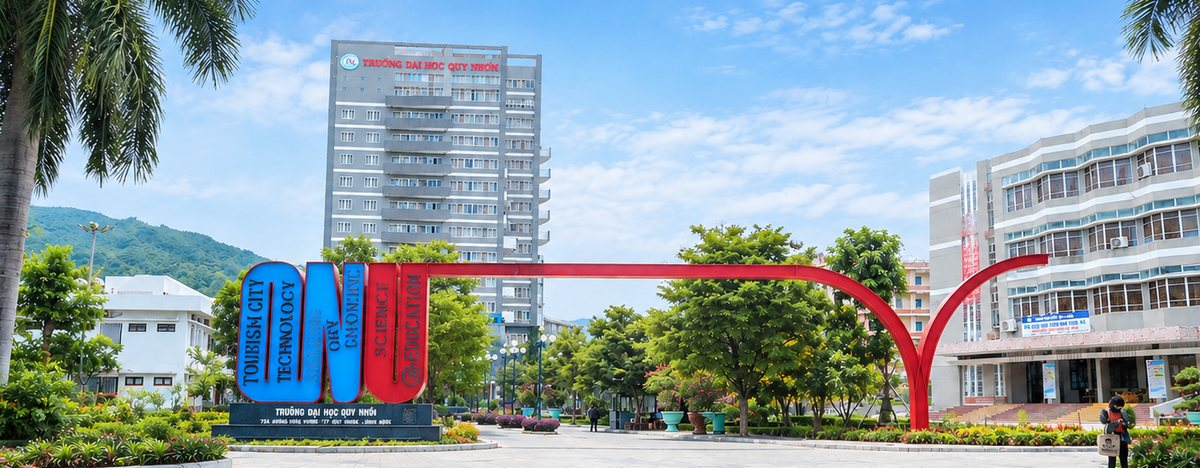
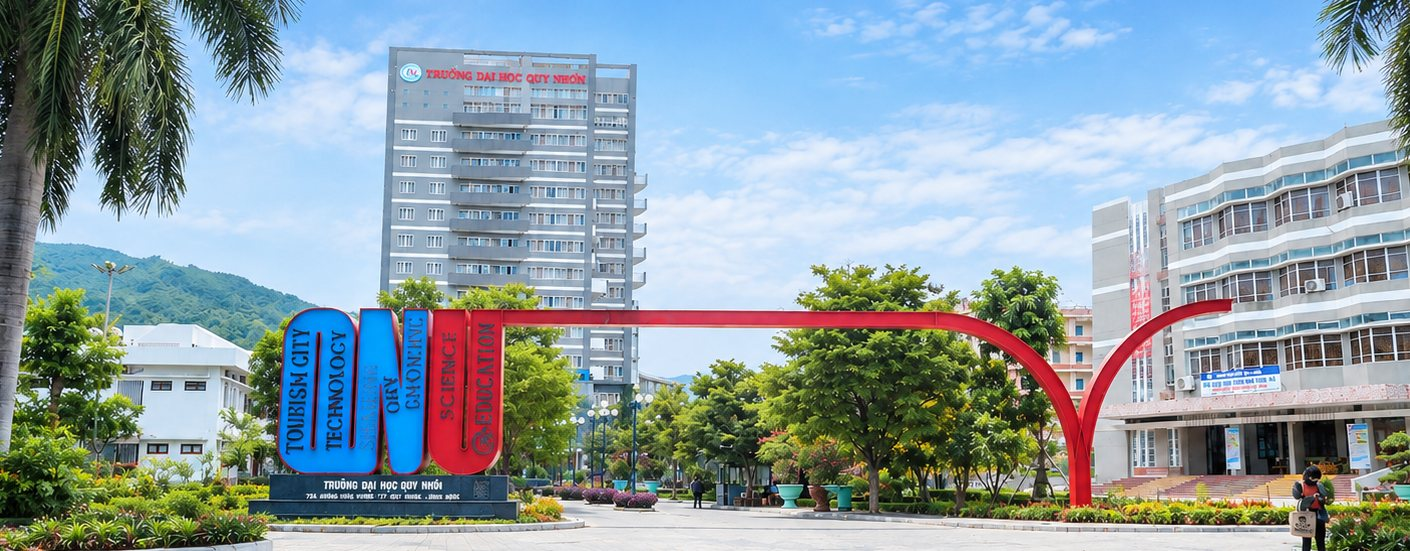
Add files via upload

diff --git a/assets/js/index.js b/assets/js/index.js
@@ -707,6 +707,38 @@ const toast = document.getElementById('toast');
 
     renderSubjectGrids();
 
+    // ---------------- QUY TẮC CHUNG: ô nào admin để TRỐNG thì ẨN, không dùng chữ mặc định ----------------
+    // - Trường CHƯA TỪNG được lưu (undefined)  -> giữ nội dung mặc định trong HTML.
+    // - Trường đã lưu nhưng để trống ("")       -> ẩn hẳn phần tử đó.
+    function isBlankField(obj, key){
+        return !!obj && typeof obj[key] === 'string' && obj[key].trim() === '';
+    }
+    function hasField(obj, key){
+        return !!obj && typeof obj[key] === 'string';
+    }
+    // Ẩn 1 phần tử; nếu cha là .sec-head mà không còn con nào hiện thì ẩn luôn cả cha (đỡ chừa khoảng trống).
+    function hideEl(el){
+        if (!el) return;
+        el.style.display = 'none';
+        const parent = el.parentElement;
+        if (parent && parent.classList.contains('sec-head') &&
+            Array.from(parent.children).every(c => c === el || c.style.display === 'none')){
+            parent.style.display = 'none';
+        }
+    }
+    function showEl(el){
+        if (!el) return;
+        el.style.display = '';
+        const parent = el.parentElement;
+        if (parent && parent.classList.contains('sec-head')) parent.style.display = '';
+    }
+    // Gán chữ nếu có, ẩn nếu để trống, giữ mặc định nếu chưa từng cấu hình.
+    function applyTextOrHide(el, obj, key){
+        if (!el || !hasField(obj, key)) return;
+        const v = obj[key].trim();
+        if (v){ el.textContent = v; showEl(el); } else { hideEl(el); }
+    }
+
     // ---------------- KHỐI GIỚI THIỆU (hero) — đọc từ Supabase site_settings ----------------
     async function loadHeroSettings(){
         let revealed = false;
@@ -723,8 +755,8 @@ const toast = document.getElementById('toast');
             if (error || !data || !data.payload) return; // chưa cấu hình -> giữ nội dung tĩnh mặc định
             const hero = data.payload;
             if (hero.pageTitle) document.title = hero.pageTitle;
-            if (hero.eyebrow) document.getElementById('heroEyebrow').textContent = hero.eyebrow;
-            if (hero.title)   document.getElementById('heroTitle').textContent = hero.title;
+            applyTextOrHide(document.getElementById('heroEyebrow'), hero, 'eyebrow');
+            applyTextOrHide(document.getElementById('heroTitle'),   hero, 'title');
         } finally {
             // Chỉ hiện chữ ra SAU KHI đã biết chắc nội dung cuối cùng (mặc định hoặc tuỳ chỉnh)
             // -> tránh hiện tượng nháy chữ mặc định rồi đổi sang chữ tuỳ chỉnh khi tải trang.
@@ -766,18 +798,41 @@ const toast = document.getElementById('toast');
             if (badgeAlt) badgeAlt.classList.toggle('hidden', spType !== 'badge');
             if (spType === 'avatars' && avatarGroup){
                 avatarGroup.setAttribute('data-effect', sp.effect || 'none');
-                if (sp.count) document.getElementById('avatarCount').textContent = sp.count;
-                if (sp.suffix) document.getElementById('avatarSuffix').textContent = sp.suffix;
+                const countEl = document.getElementById('avatarCount');
+                const suffixEl = document.getElementById('avatarSuffix');
+                applyTextOrHide(countEl, sp, 'count');
+                applyTextOrHide(suffixEl, sp, 'suffix');
                 const avts = document.querySelectorAll('#avatarStack .mini-avt');
-                (sp.avatars || []).slice(0,4).forEach((a, i) => {
-                    if (!avts[i]) return;
-                    if (a.letter) avts[i].textContent = a.letter;
-                    if (a.color)  avts[i].style.background = a.color;
-                });
+                if (Array.isArray(sp.avatars)){
+                    avts.forEach((el, i) => {
+                        const a = sp.avatars[i];
+                        // Không có dữ liệu hoặc để trống chữ cái -> ẩn avatar đó
+                        if (!a || !String(a.letter || '').trim()){ el.style.display = 'none'; return; }
+                        el.style.display = '';
+                        el.textContent = String(a.letter).trim();
+                        if (a.color) el.style.background = a.color;
+                    });
+                }
+                // Ẩn cả nhóm nếu không còn gì để hiện (không avatar + không chữ)
+                const anyAvatar = Array.from(avts).some(el => el.style.display !== 'none');
+                const anyText = [countEl, suffixEl].some(el => el && el.style.display !== 'none');
+                const stack = document.getElementById('avatarStack');
+                if (stack) stack.style.display = anyAvatar ? '' : 'none';
+                const agText = avatarGroup.querySelector('.ag-text');
+                if (agText) agText.style.display = anyText ? '' : 'none';
+                if (!anyAvatar && !anyText) avatarGroup.style.display = 'none';
             } else if (spType === 'badge' && badgeAlt){
                 badgeAlt.setAttribute('data-effect', sp.effect || 'none');
-                if (sp.badgeIcon) document.getElementById('heroBadgeIcon').className = sp.badgeIcon;
-                if (sp.badgeText) document.getElementById('heroBadgeText').textContent = sp.badgeText;
+                const iconEl = document.getElementById('heroBadgeIcon');
+                const textEl = document.getElementById('heroBadgeText');
+                if (hasField(sp, 'badgeIcon')){
+                    if (sp.badgeIcon.trim()){ iconEl.className = sp.badgeIcon.trim(); iconEl.style.display = ''; }
+                    else iconEl.style.display = 'none';
+                }
+                applyTextOrHide(textEl, sp, 'badgeText');
+                // Huy hiệu trống cả icon lẫn chữ -> ẩn hẳn
+                if (iconEl.style.display === 'none' && textEl.style.display === 'none') badgeAlt.style.display = 'none';
+                else badgeAlt.style.display = '';
             }
         }catch(e){ /* mạng lỗi -> im lặng giữ mặc định, không chặn trang tải */ }
     }
@@ -801,8 +856,12 @@ const toast = document.getElementById('toast');
             productSectionTitle: payload.productTitle,
         };
         Object.keys(map).forEach(id => {
+            const el = document.getElementById(id);
+            if (!el) return;
             const val = map[id];
-            if (val){ const el = document.getElementById(id); if (el) el.textContent = val; }
+            if (typeof val !== 'string') return;      // chưa từng cấu hình -> giữ mặc định
+            if (val.trim()){ el.textContent = val.trim(); showEl(el); }
+            else hideEl(el);                          // admin để trống -> ẩn tiêu đề
         });
     }
     loadHomeTexts();
@@ -1605,8 +1664,14 @@ const toast = document.getElementById('toast');
 
         const titleEl = document.getElementById('supportIntroTitle');
         const descEl = document.getElementById('supportIntroDesc');
-        if (titleEl) titleEl.textContent = payload.intro_title || DEFAULT_SUPPORT_CONTENT.intro_title;
-        if (descEl) descEl.textContent = payload.intro_desc || DEFAULT_SUPPORT_CONTENT.intro_desc;
+        if (titleEl){
+            if (isBlankField(payload, 'intro_title')) titleEl.style.display = 'none';
+            else { titleEl.style.display = ''; titleEl.textContent = payload.intro_title || DEFAULT_SUPPORT_CONTENT.intro_title; }
+        }
+        if (descEl){
+            if (isBlankField(payload, 'intro_desc')) descEl.style.display = 'none';
+            else { descEl.style.display = ''; descEl.textContent = payload.intro_desc || DEFAULT_SUPPORT_CONTENT.intro_desc; }
+        }
 
         // Ẩn thẻ "Nhận Pro miễn phí" (kể cả khi đã được lưu sẵn trong DB / admin)
         const contacts = (Array.isArray(payload.contacts) ? payload.contacts : [])

diff --git a/admin/index.html b/admin/index.html
@@ -632,9 +632,9 @@
             <div id="supportIntroBlock" class="mini-form show hidden" style="max-width:620px; margin-bottom:26px; display:flex;">
                 <div class="mini-form-title">Khối giới thiệu đầu trang</div>
                 <label>Tiêu đề</label>
-                <input id="supportIntroTitleInput" placeholder="VD: Kẹt chỗ nào, nhắn liền chỗ đó 👋">
+                <input id="supportIntroTitleInput" placeholder="VD: Kẹt chỗ nào, nhắn liền chỗ đó 👋 — để trống sẽ ẩn">
                 <label>Mô tả</label>
-                <textarea id="supportIntroDescInput" rows="3" placeholder="Mô tả ngắn hiển thị dưới tiêu đề"></textarea>
+                <textarea id="supportIntroDescInput" rows="3" placeholder="Mô tả ngắn hiển thị dưới tiêu đề — để trống sẽ ẩn"></textarea>
                 <div class="mini-actions">
                     <button class="btn-mini-save" onclick="saveSupportIntro()">Lưu</button>
                 </div>
@@ -1171,11 +1171,11 @@
                         <div style="display:flex; gap:14px; flex-wrap:wrap; margin-top:10px;">
                             <div style="flex:1; min-width:170px;">
                                 <label>Số/chữ đậm (vd: 1.240 bạn)</label>
-                                <input id="setThemeSPCount" placeholder="1.240 bạn" oninput="updateThemePreview()">
+                                <input id="setThemeSPCount" placeholder="1.240 bạn — để trống sẽ ẩn" oninput="updateThemePreview()">
                             </div>
                             <div style="flex:1; min-width:170px;">
                                 <label>Chữ theo sau</label>
-                                <input id="setThemeSPSuffix" placeholder="đang ôn tập tuần này" oninput="updateThemePreview()">
+                                <input id="setThemeSPSuffix" placeholder="đang ôn tập tuần này — để trống sẽ ẩn" oninput="updateThemePreview()">
                             </div>
                         </div>
                         <label style="margin-top:10px;">4 avatar tròn (chữ cái + màu)</label>
@@ -1189,9 +1189,9 @@
 
                     <div id="setThemeSPBadge" class="hidden" style="margin-top:10px;">
                         <label>Icon (mã lớp Font Awesome)</label>
-                        <input id="setThemeSPBadgeIcon" placeholder="fa-solid fa-star">
+                        <input id="setThemeSPBadgeIcon" placeholder="fa-solid fa-star — để trống sẽ ẩn">
                         <label>Nội dung huy hiệu</label>
-                        <input id="setThemeSPBadgeText" placeholder="4.9/5 từ 320 đánh giá">
+                        <input id="setThemeSPBadgeText" placeholder="4.9/5 từ 320 đánh giá — để trống sẽ ẩn">
                     </div>
 
                     <label style="margin-top:12px;">Hiệu ứng chuyển động của khối này</label>
@@ -1219,32 +1219,32 @@
                     <input id="setHeroPageTitle" placeholder="SNG EDU — Không gian tri thức cộng đồng">
                     <div class="hint" style="margin:2px 0 10px;">Chữ hiện trên tab trình duyệt và khi chia sẻ link (Google, Zalo, Facebook...). Nếu để trống, web dùng tiêu đề mặc định.</div>
                     <label>Dòng nhỏ phía trên (eyebrow)</label>
-                    <input id="setHeroEyebrow" placeholder="Mác – Lênin">
+                    <input id="setHeroEyebrow" placeholder="Mác – Lênin — để trống sẽ ẩn">
                     <label>Tiêu đề chính</label>
-                    <input id="setHeroTitle" placeholder="Ôn tập trắc nghiệm...">
+                    <input id="setHeroTitle" placeholder="Ôn tập trắc nghiệm... — để trống sẽ ẩn">
                 </div>
 
                 <div id="setFieldsTexts" class="hidden">
                     <label style="margin-top:10px;">Tiêu đề "Truy cập nhanh"</label>
-                    <input id="setTextQuick" placeholder="Truy cập nhanh">
+                    <input id="setTextQuick" placeholder="Truy cập nhanh — để trống sẽ ẩn">
                     <label style="margin-top:10px;">Tiêu đề "Học phần nổi bật" (trang chủ)</label>
-                    <input id="setTextHomeSubjects" placeholder="Học phần nổi bật">
+                    <input id="setTextHomeSubjects" placeholder="Học phần nổi bật — để trống sẽ ẩn">
                     <label style="margin-top:10px;">Tiêu đề khối "Tài liệu miễn phí nổi bật" (chỉ hiện khi có tài liệu miễn phí được ghim)</label>
-                    <input id="setTextFeaturedDocFree" placeholder="Tài liệu miễn phí nổi bật">
+                    <input id="setTextFeaturedDocFree" placeholder="Tài liệu miễn phí nổi bật — để trống sẽ ẩn">
                     <label style="margin-top:10px;">Tiêu đề khối "Tài liệu trả phí nổi bật" (chỉ hiện khi có tài liệu trả phí được ghim)</label>
-                    <input id="setTextFeaturedDocPaid" placeholder="Tài liệu trả phí nổi bật">
+                    <input id="setTextFeaturedDocPaid" placeholder="Tài liệu trả phí nổi bật — để trống sẽ ẩn">
                     <label style="margin-top:10px;">Tiêu đề khối "Công cụ nổi bật" (chỉ hiện khi có công cụ được ghim)</label>
-                    <input id="setTextFeaturedTool" placeholder="Công cụ nổi bật">
+                    <input id="setTextFeaturedTool" placeholder="Công cụ nổi bật — để trống sẽ ẩn">
                     <label style="margin-top:10px;">Tiêu đề khối "Sản phẩm nổi bật" (chỉ hiện khi có sản phẩm được ghim)</label>
-                    <input id="setTextFeaturedProduct" placeholder="Sản phẩm nổi bật">
+                    <input id="setTextFeaturedProduct" placeholder="Sản phẩm nổi bật — để trống sẽ ẩn">
                     <label style="margin-top:10px;">Tiêu đề tab "Trắc nghiệm"</label>
-                    <input id="setTextQuiz" placeholder="Học phần đại cương">
+                    <input id="setTextQuiz" placeholder="Học phần đại cương — để trống sẽ ẩn">
                     <label style="margin-top:10px;">Tiêu đề tab "Tài liệu"</label>
-                    <input id="setTextDoc" placeholder="Tài liệu">
+                    <input id="setTextDoc" placeholder="Tài liệu — để trống sẽ ẩn">
                     <label style="margin-top:10px;">Tiêu đề tab "Công cụ"</label>
-                    <input id="setTextTool" placeholder="Công cụ">
+                    <input id="setTextTool" placeholder="Công cụ — để trống sẽ ẩn">
                     <label style="margin-top:10px;">Tiêu đề tab "Sản phẩm"</label>
-                    <input id="setTextProduct" placeholder="Sản phẩm">
+                    <input id="setTextProduct" placeholder="Sản phẩm — để trống sẽ ẩn">
                     <div class="hint" style="margin-top:6px;">Để trống ô nào thì trang chủ dùng đúng chữ mặc định như placeholder ở ô đó.</div>
                 </div>
 

diff --git a/assets/css/index.css b/assets/css/index.css
@@ -559,15 +559,23 @@
     body[data-show-avatars="0"] .avatar-group{ display:none; }
     .hero-text{ flex:1; min-width:0; position:relative; z-index:1; }
     .hero-illustration{ flex-shrink:0; width:172px; height:172px; filter:drop-shadow(0 14px 22px rgba(30,25,60,.14)); position:relative; z-index:1; }
-    /* Ảnh trường (thay cho hình minh hoạ cũ). Cùng công tắc "showIllustration" ở admin > Giao diện. */
+    /* Ảnh trường: tràn full khung banner, mờ dần vào nền để chữ vẫn đọc rõ.
+       Cùng công tắc "showIllustration" ở admin > Giao diện. */
+    .hero-card.has-photo{ min-height:260px; }
+    .hero-card.has-photo .hero-text{ max-width:52%; }
     .hero-photo{
-        flex-shrink:0; width:min(44%, 460px); position:relative; z-index:1; line-height:0;
-        border-radius:18px; overflow:hidden;
-        border:1px solid color-mix(in srgb, #fff 45%, transparent);
-        box-shadow:0 18px 40px rgba(20,20,50,.22);
+        position:absolute; top:0; right:0; bottom:0; width:60%; z-index:0; line-height:0; overflow:hidden;
+        -webkit-mask-image:linear-gradient(to right, transparent 0%, rgba(0,0,0,.55) 22%, #000 48%);
+                mask-image:linear-gradient(to right, transparent 0%, rgba(0,0,0,.55) 22%, #000 48%);
     }
-    .hero-photo img{ width:100%; height:auto; display:block; aspect-ratio:1200 / 468; object-fit:cover; }
+    .hero-photo img{ width:100%; height:100%; display:block; object-fit:cover; object-position:38% 55%; }
+    .hero-photo::after{
+        content:''; position:absolute; inset:0; pointer-events:none;
+        background:linear-gradient(120deg, color-mix(in srgb, var(--brand) 22%, transparent) 0%, transparent 55%);
+    }
     body[data-show-illustration="0"] .hero-photo{ display:none; }
+    body[data-show-illustration="0"] .hero-card.has-photo{ min-height:0; }
+    body[data-show-illustration="0"] .hero-card.has-photo .hero-text{ max-width:none; }
     .hero-eyebrow{
         display:inline-flex; align-items:center; gap:7px;
         font-size:.74rem; font-weight:700; letter-spacing:.06em; text-transform:uppercase;
@@ -1398,11 +1406,17 @@ html[data-theme="dark"] .promo-pill-timer{ color:#ffbd4a; }
     .promo-banner-right{ width:100%; justify-content:flex-start; }
 }
 
-/* Ảnh hero trên tablet / điện thoại: xếp dưới phần chữ, full chiều ngang thẻ */
-@media (max-width: 1020px){
-    .hero-photo{ width:min(46%, 340px); }
-}
+/* Ảnh hero trên điện thoại: ảnh nằm trên cùng, mờ dần xuống nền, chữ đè nhẹ lên phần mờ */
 @media (max-width: 760px){
-    .hero-card{ flex-direction:column; align-items:stretch; gap:22px; padding:28px 22px; }
-    .hero-photo{ width:100%; }
+    .hero-card.has-photo{ flex-direction:column; align-items:stretch; gap:0; padding:0 0 24px; min-height:0; }
+    .hero-card.has-photo .hero-text{ max-width:none; padding:0 22px; margin-top:-22px; }
+    .hero-photo{
+        position:relative; width:100%; height:245px; order:-1; flex-shrink:0;
+        -webkit-mask-image:linear-gradient(to bottom, #000 66%, transparent 100%);
+                mask-image:linear-gradient(to bottom, #000 66%, transparent 100%);
+    }
+    .hero-photo::after{ background:linear-gradient(180deg, transparent 40%, color-mix(in srgb, var(--brand) 18%, transparent) 100%); }
+    .hero-photo img{ object-position:30% 50%; }
+    body[data-show-illustration="0"] .hero-card.has-photo{ padding:28px 22px; }
+    body[data-show-illustration="0"] .hero-card.has-photo .hero-text{ padding:0; margin-top:0; }
 }

diff --git a/admin/assets/js/admin.js b/admin/assets/js/admin.js
@@ -6183,17 +6183,21 @@ async function openSettingsPanel(key){
         document.getElementById('setThemeCardRadius').value = currentSetPayload.cardRadius || 16;
         document.getElementById('setThemeShowIllustration').checked = currentSetPayload.showIllustration !== false;
 
+        // Đã từng lưu cấu hình -> hiện đúng những gì đã lưu (ô trống giữ TRỐNG = ẩn ở trang chủ).
+        // Chưa từng lưu -> điền giá trị mẫu lần đầu cho dễ sửa.
+        const hasSP = !!currentSetPayload.socialProof;
         const sp = currentSetPayload.socialProof || {};
+        const spVal = (k, d) => (hasSP && typeof sp[k] === 'string') ? sp[k] : d;
         document.getElementById('setThemeSPType').value = sp.type || 'avatars';
-        document.getElementById('setThemeSPCount').value = sp.count || '1.240 bạn';
-        document.getElementById('setThemeSPSuffix').value = sp.suffix || 'đang ôn tập tuần này';
+        document.getElementById('setThemeSPCount').value = spVal('count', '1.240 bạn');
+        document.getElementById('setThemeSPSuffix').value = spVal('suffix', 'đang ôn tập tuần này');
         document.getElementById('setThemeSPEffect').value = sp.effect || 'none';
-        document.getElementById('setThemeSPBadgeIcon').value = sp.badgeIcon || 'fa-solid fa-star';
-        document.getElementById('setThemeSPBadgeText').value = sp.badgeText || '4.9/5 từ 320 đánh giá';
+        document.getElementById('setThemeSPBadgeIcon').value = spVal('badgeIcon', 'fa-solid fa-star');
+        document.getElementById('setThemeSPBadgeText').value = spVal('badgeText', '4.9/5 từ 320 đánh giá');
         const defaultAvts = [{letter:'H',color:'#4f6bff'},{letter:'L',color:'#8b5cf6'},{letter:'M',color:'#17b26a'},{letter:'T',color:'#f5a524'}];
         const avts = (sp.avatars && sp.avatars.length === 4) ? sp.avatars : defaultAvts;
         avts.forEach((a, i) => {
-            document.getElementById(`setThemeAvt${i+1}Letter`).value = a.letter || defaultAvts[i].letter;
+            document.getElementById(`setThemeAvt${i+1}Letter`).value = (typeof a.letter === 'string') ? a.letter : defaultAvts[i].letter;
             document.getElementById(`setThemeAvt${i+1}Color`).value = a.color || defaultAvts[i].color;
         });
         onThemeSPTypeChange();
@@ -6528,7 +6532,7 @@ async function saveSiteSetting(){
                 badgeIcon: document.getElementById('setThemeSPBadgeIcon').value.trim(),
                 badgeText: document.getElementById('setThemeSPBadgeText').value.trim(),
                 avatars: [1,2,3,4].map(i => ({
-                    letter: document.getElementById(`setThemeAvt${i}Letter`).value.trim() || '?',
+                    letter: document.getElementById(`setThemeAvt${i}Letter`).value.trim(), // để trống = ẩn avatar đó
                     color: document.getElementById(`setThemeAvt${i}Color`).value,
                 })),
             },

diff --git a/doc-preview-viewer.html b/doc-preview-viewer.html
@@ -100,14 +100,14 @@
         padding:2px 9px; border-radius:999px; pointer-events:none; font-variant-numeric:tabular-nums;
     }
 
-    /* Watermark phủ lên mỗi trang — không chặn được chụp màn hình, nhưng giúp truy vết nếu bị
-       phát tán. Để rất nhạt cho khỏi làm bẩn chữ của tài liệu (bản cũ đậm .16 nhìn như bị mờ). */
+    /* Dấu truy vết: chỉ 1 dòng chữ nhỏ ở góc dưới bên trái mỗi trang (không còn chữ chéo phủ cả trang).
+       Vẫn ghi email người xem để nếu tài liệu bị phát tán thì tra được ai đã xem. */
     .watermark{
-        position:absolute; inset:0; pointer-events:none; overflow:hidden; opacity:.085;
-        display:flex; flex-wrap:wrap; align-content:space-around; justify-content:space-around;
-        transform:rotate(-24deg) scale(1.25); font-size:.72rem; font-weight:600; color:#000; letter-spacing:.02em;
+        position:absolute; left:12px; bottom:9px; max-width:calc(100% - 80px); z-index:2;
+        font-size:.68rem; font-weight:500; letter-spacing:.01em; line-height:1.2;
+        color:rgba(0,0,0,.55); text-shadow:0 0 3px rgba(255,255,255,.9);
+        overflow:hidden; text-overflow:ellipsis; white-space:nowrap; pointer-events:none;
     }
-    .watermark span{ white-space:nowrap; margin:18px 26px; }
 
     /* ---------- Khối khoá / trạng thái ---------- */
     .lock-card{
@@ -211,9 +211,8 @@ function showState(html){
 }
 
 function watermarkHtml(){
-    const parts = [];
-    for (let i = 0; i < 12; i++) parts.push(`<span>${escapeHtml(watermarkLabel)}</span>`);
-    return `<div class="watermark">${parts.join('')}</div>`;
+    // 1 dòng nhỏ ở góc dưới bên trái mỗi trang
+    return `<div class="watermark">${escapeHtml(watermarkLabel)}</div>`;
 }
 
 // ---------- Zoom ----------

diff --git a/index.html b/index.html
@@ -169,7 +169,7 @@
         </div>
 
         <div class="hero">
-            <div class="hero-card" id="heroCard" data-hero-style="gradient">
+            <div class="hero-card has-photo" id="heroCard" data-hero-style="gradient">
                 <div class="hero-text" id="heroText" style="opacity:0;">
                     <div class="hero-eyebrow" id="heroEyebrow">SNG EDU - Không gian tri thức cộng đồng</div>
                     <h1 id="heroTitle">Mở kho tài liệu, bắt đầu ôn tập ngay hôm nay</h1>

diff --git a/sw.js b/sw.js
@@ -10,7 +10,7 @@
 // Tăng CACHE_VERSION mỗi khi đổi asset tĩnh quan trọng để buộc cập nhật cache.
 // ============================================================
 
-const CACHE_VERSION = 'sngedu-shell-v4';
+const CACHE_VERSION = 'sngedu-shell-v7';
 
 const CORE_ASSETS = [
     '/',
